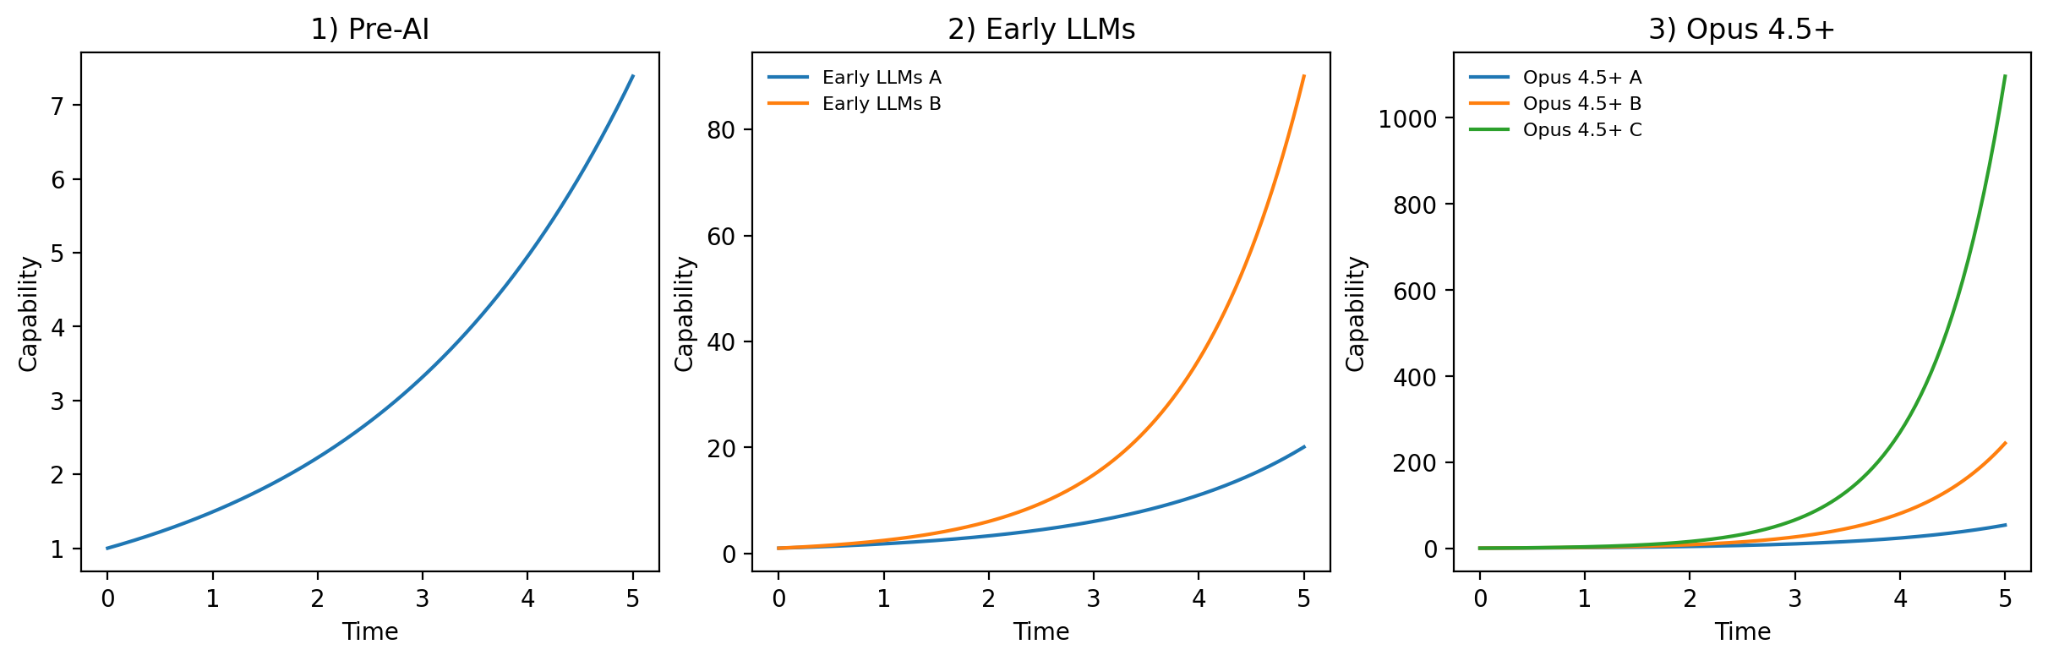
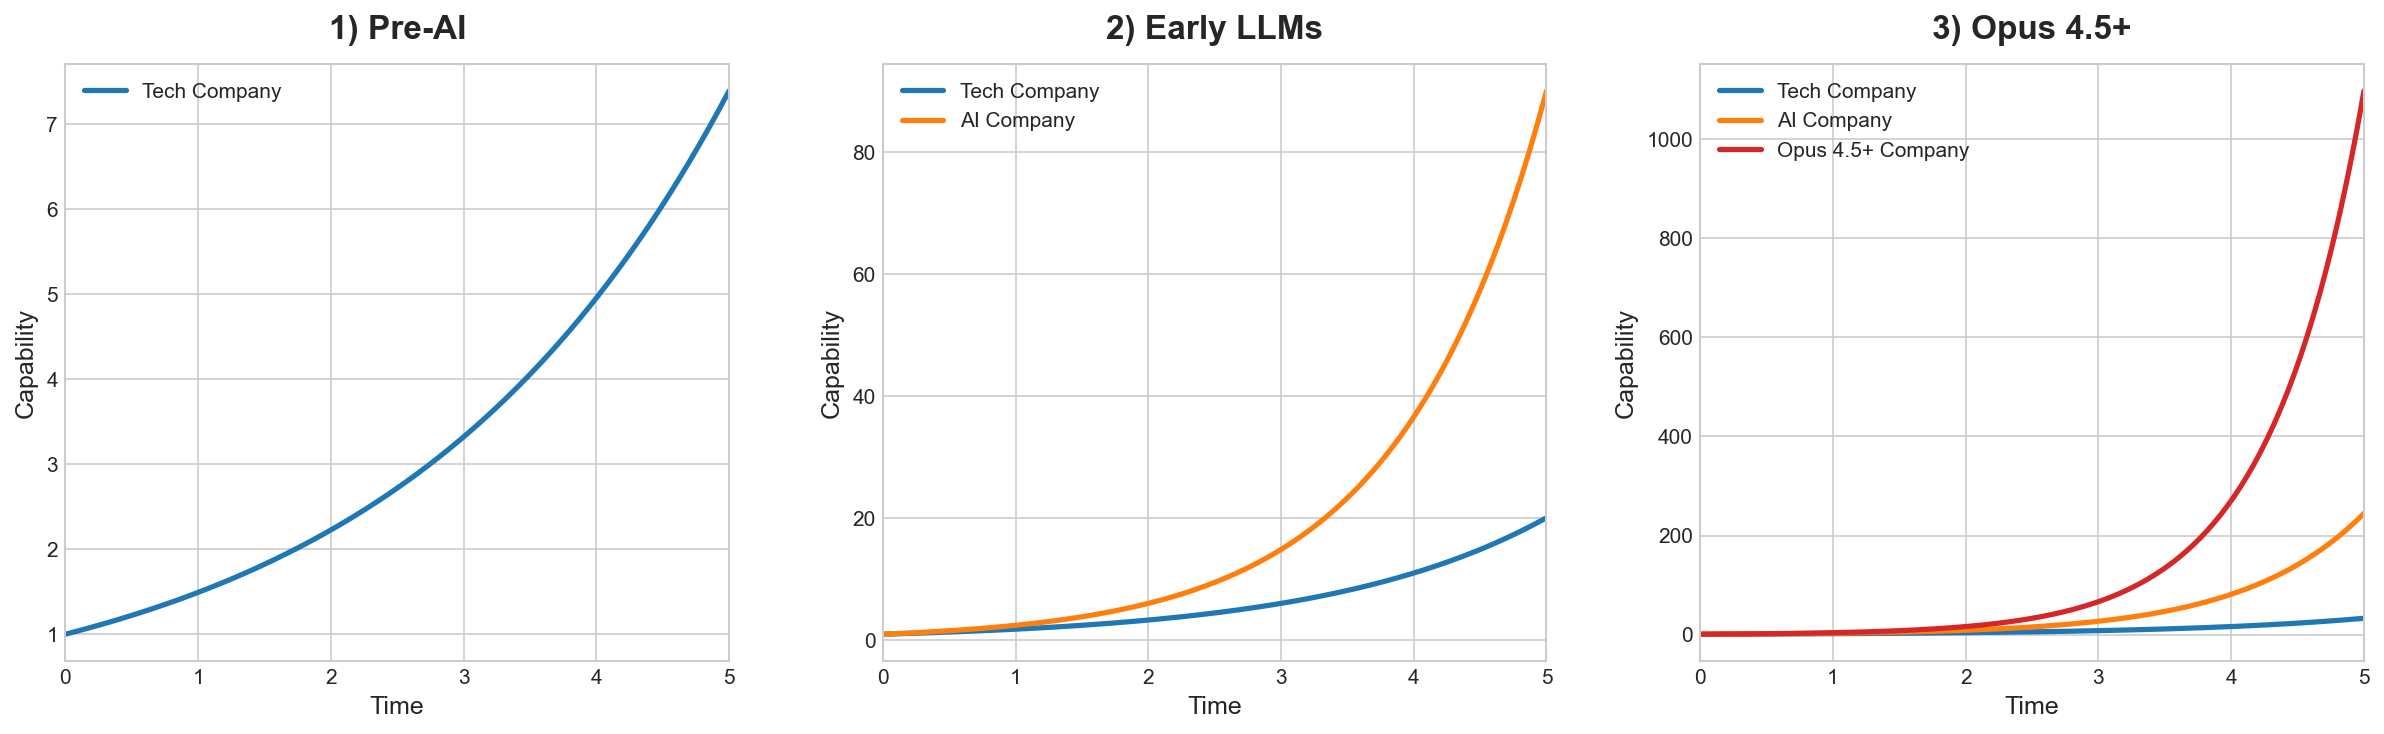
Style: Adjust padding/margin for article page and index sidebar; update blog image.

diff --git a/src/pages/Index.tsx b/src/pages/Index.tsx
@@ -62,7 +62,7 @@ const Index = () => {
             
             {/* Sidebar */}
             <div className="lg:col-span-1">
-              <div className="sticky top-24 space-y-3">
+              <div className="sticky top-24 mt-[10px] space-y-3">
                 {/* Page Navigation */}
                 <Card className="shadow-sm border-l-2 border-l-accent/20">
                   <CardHeader className="pb-2 pt-3">

diff --git a/src/pages/ArticlePage.tsx b/src/pages/ArticlePage.tsx
@@ -18,7 +18,7 @@ const ArticlePage = () => {
   return (
     <div className="min-h-screen">
       <Header />
-      <main className="container mx-auto px-4 py-8 max-w-4xl">
+      <main className="container mx-auto px-4 pt-24 pb-8 max-w-4xl">
         <article className="prose prose-lg max-w-none">
           <header className="mb-8">
             <h1 className="text-4xl font-bold mb-4">{article.title}</h1>

diff --git a/scripts/capability_curves.py b/scripts/capability_curves.py
@@ -1,0 +1,54 @@
+import matplotlib.pyplot as plt
+import numpy as np
+
+plt.style.use('seaborn-v0_8-whitegrid')
+fig, axes = plt.subplots(1, 3, figsize=(16, 5))
+
+t = np.linspace(0, 5, 200)
+
+# Colors
+blue = '#1f77b4'
+orange = '#ff7f0e'
+red = '#d62728'
+
+# --- Panel 1: Pre-AI ---
+ax = axes[0]
+ax.set_title('1) Pre-AI', fontsize=16, fontweight='bold', pad=12)
+y = np.exp(0.4 * t)
+ax.plot(t, y, color=blue, linewidth=2.5, label='Tech Company')
+ax.set_xlabel('Time', fontsize=12)
+ax.set_ylabel('Capability', fontsize=12)
+ax.legend(fontsize=10, loc='upper left')
+ax.set_xlim(0, 5)
+
+# --- Panel 2: Early LLMs ---
+ax = axes[1]
+ax.set_title('2) Early LLMs', fontsize=16, fontweight='bold', pad=12)
+y_a = np.exp(0.6 * t)
+y_b = np.exp(0.9 * t)
+ax.plot(t, y_a, color=blue, linewidth=2.5, label='Tech Company')
+ax.plot(t, y_b, color=orange, linewidth=2.5, label='AI Company')
+ax.set_xlabel('Time', fontsize=12)
+ax.set_ylabel('Capability', fontsize=12)
+ax.legend(fontsize=10, loc='upper left')
+ax.set_xlim(0, 5)
+
+# --- Panel 3: Opus 4.5+ ---
+ax = axes[2]
+ax.set_title('3) Opus 4.5+', fontsize=16, fontweight='bold', pad=12)
+y_a = np.exp(0.7 * t)
+y_b = np.exp(1.1 * t)
+y_c = np.exp(1.4 * t)
+ax.plot(t, y_a, color=blue, linewidth=2.5, label='Tech Company')
+ax.plot(t, y_b, color=orange, linewidth=2.5, label='AI Company')
+ax.plot(t, y_c, color=red, linewidth=2.5, label='Opus 4.5+ Company')
+ax.set_xlabel('Time', fontsize=12)
+ax.set_ylabel('Capability', fontsize=12)
+ax.legend(fontsize=10, loc='upper left')
+ax.set_xlim(0, 5)
+
+plt.tight_layout(w_pad=3)
+out_path = 'public/blog/opus-renaissance/capability-curves.png'
+fig.savefig(out_path, dpi=150, bbox_inches='tight', facecolor='white')
+print(f'Saved to {out_path}')
+plt.close()
